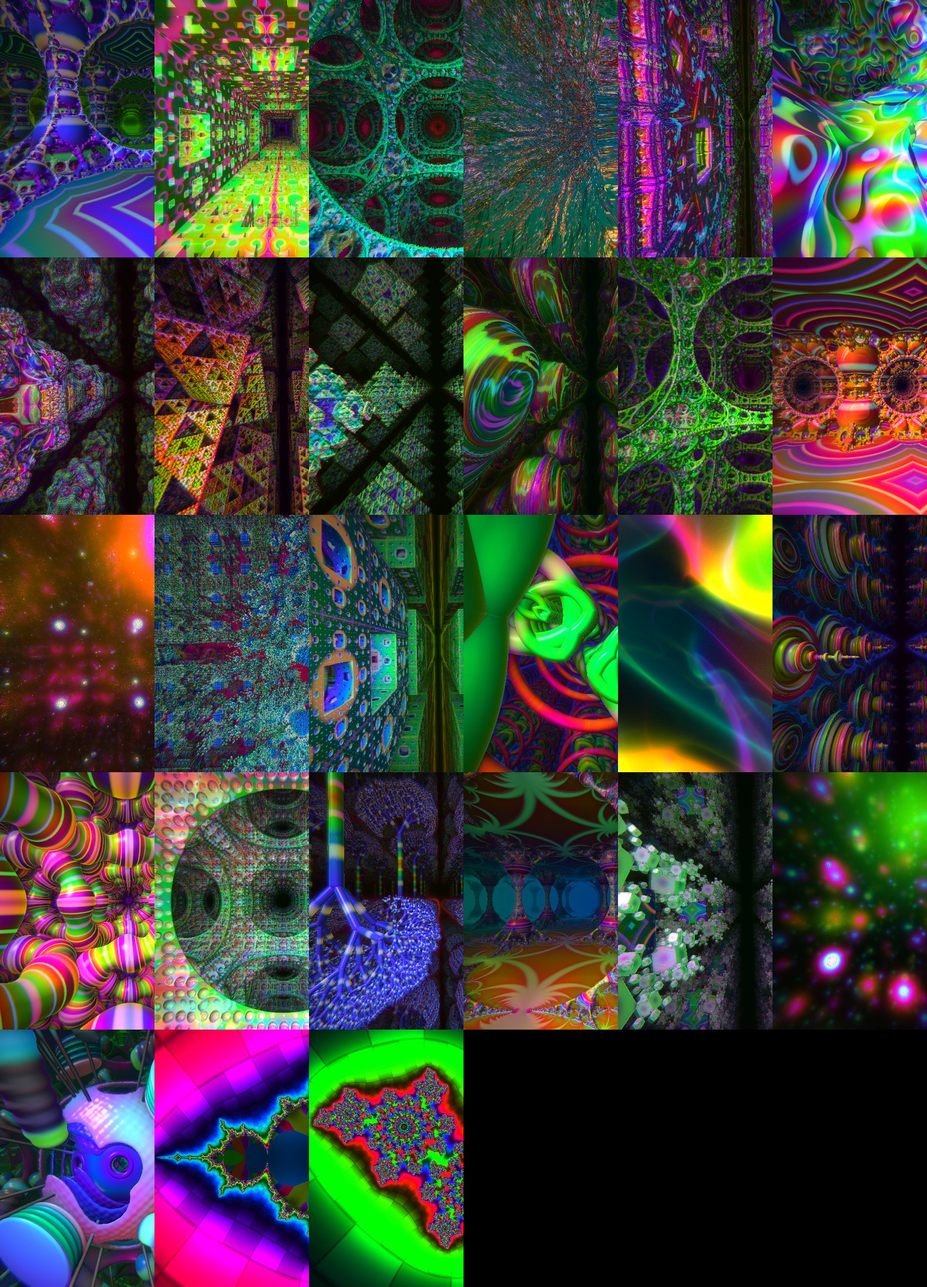
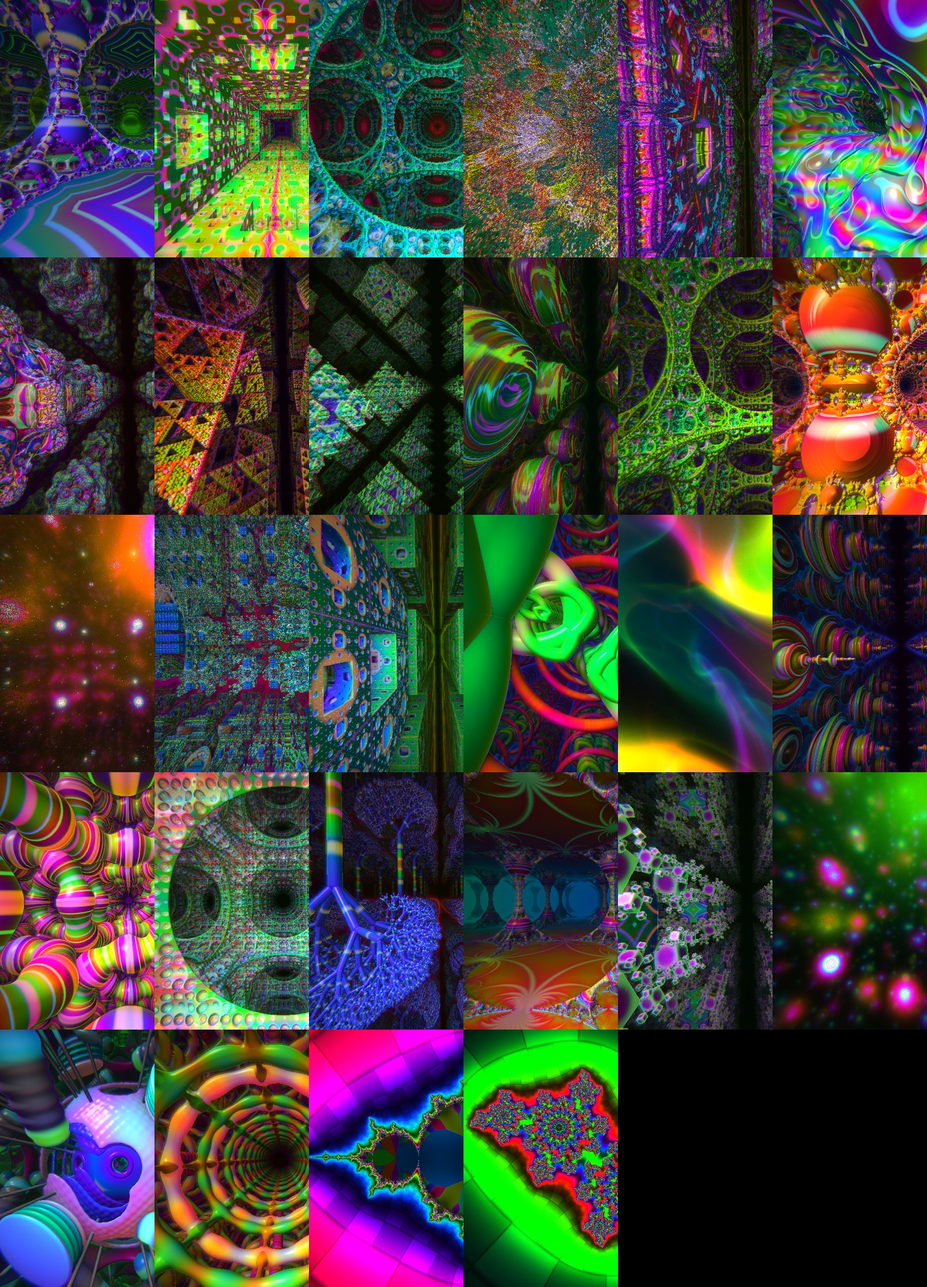
Biomech: a world of rib cages, spines and hoses in homage to H. R. Giger, with palettes, a surface, a filter and a journey
The world is tunnels whose walls are cages of segmented rings and knuckled
rods, with a spine of vertebrae where four meet, tendons from ring to
spine, and pairs of ribbed hoses between; the rings breathe with the
morph. With it: the near-grey palettes Gunmetal, Tallow and Verdigris
(open without orbs), the ribbed surface, the Airbrush filter, and the
Biomech journey template. Nothing of Giger's is copied.

Claude-Session: https://claude.ai/code/session_01P6VPRAEHB2YHcMwxJHigoo

diff --git a/js/worlds.js b/js/worlds.js
@@ -812,6 +812,61 @@ export const WORLDS=[
  }},
 /* The two zoom worlds are flat pictures, not spaces: js/zoom.js draws them and moves the view. They are marked as cloud
    worlds too, so that everything that needs a surface (the orb's check, the thrown light, the distance probe) leaves them alone. */
+/* Biomech: an endless hall of ribbed tunnels, in homage to the biomechanical paintings of H. R. Giger. Nothing of his
+   is copied; it is made of the kinds of thing he painted: rib cages, spines, hoses. Along z run tunnels, one to each
+   3.2 by 3.2 of x and y. A tunnel's wall is a cage: two rings to each unit of z, their thickness cut into segments
+   like a windpipe, joined by eight knuckled rods. Where four tunnels meet stands a spine of four vertebrae to the
+   unit, joined to the larger rings by tendons, and between each two tunnels runs a pair of ribbed hoses. The morph
+   swells one ring as it shrinks the other, as if the cage breathed. The joins are rounded (bmS), and the swellings
+   make the distance a little too large in places, so three quarters of it is used. */
+{id:"biomech",name:"Biomech",hue:.47,fog:.19,maxd:16,speed:.6,start:[.25,.1,.2],
+ period:function(){return [3.2,3.2,1]},
+ glsl:[
+ "float bmS(float a,float b,float k){float h=clamp(0.5+0.5*(b-a)/k,0.0,1.0);return mix(b,a,h)-k*h*(1.0-h);}",
+ "float map(vec3 p){",
+ "  vec3 q=vec3(mod(p.x+1.6,3.2)-1.6,mod(p.y+1.6,3.2)-1.6,mod(p.z+0.5,1.0)-0.5);",
+ "  float rho=length(q.xy);float a=atan(q.y,q.x);float w=0.10;",
+ "  float seg=0.016*cos(12.0*a);",
+ "  float d=length(vec2(rho-(1.12+0.06*uM),q.z))-(0.085+seg);", /* the larger ring, in the middle of each unit */
+ "  float d1=length(vec2(rho-(1.02-0.05*uM),0.5-abs(q.z)))-(0.065-seg);", /* the smaller, at its ends */
+ "  if(d1<d){d=d1;w=0.16;}",
+ "  float af=mod(a+0.3926991,0.7853982)-0.3926991;", /* the eight rods: one is worked out, and the angle folded onto it */
+ "  float ds=length(vec2(rho*cos(af)-1.09,rho*sin(af)))-(0.045+0.02*cos(12.5663706*q.z));",
+ "  if(ds<d)w=0.24;",
+ "  d=bmS(d,ds,0.07);",
+ "  vec2 c=abs(q.xy)-1.6;float vb=0.5+0.5*cos(25.1327412*q.z);", /* the spine at the nearest corner */
+ "  float dv=length(c)-(0.2+0.13*vb*vb);",
+ "  float dt=max(length(vec2((abs(q.x)-abs(q.y))*0.7071068,q.z))-0.05,1.07+0.06*uM-rho);", /* a tendon from the larger ring out to the spine */
+ "  if(dt<d)w=0.30;",
+ "  d=bmS(d,dt,0.08);",
+ "  if(dv<d)w=0.36+0.06*vb;",
+ "  d=bmS(d,dv,0.08);",
+ "  vec2 e=vec2(abs(q.x)-1.6,q.y);vec2 f=vec2(abs(q.y)-1.6,q.x);if(dot(f,f)<dot(e,e))e=f;", /* the pair of hoses between this tunnel and the nearest neighbour */
+ "  float dh=length(vec2(e.x,abs(e.y)-0.13))-(0.085+0.012*cos(62.8318531*q.z));",
+ "  if(dh<d){d=dh;w=0.52+0.04*cos(62.8318531*q.z);}",
+ "  orb=vec4(0.5+0.5*cos(12.0*a),0.3*vb,0.25,w);",
+ "  return 0.75*d;",
+ "}"],
+ de:function(x,y,z,m){
+  var S=function(a,b,k){var h=Math.max(0,Math.min(1,.5+.5*(b-a)/k));return b+(a-b)*h-k*h*(1-h);};
+  var qx=md(x+1.6,3.2)-1.6,qy=md(y+1.6,3.2)-1.6,qz=md(z+.5,1)-.5;
+  var rho=Math.hypot(qx,qy),a=Math.atan2(qy,qx),seg=.016*Math.cos(12*a);
+  var d=Math.hypot(rho-(1.12+.06*m),qz)-(.085+seg);
+  var d1=Math.hypot(rho-(1.02-.05*m),.5-Math.abs(qz))-(.065-seg);
+  if(d1<d)d=d1;
+  var af=md(a+.3926991,.7853982)-.3926991;
+  var ds=Math.hypot(rho*Math.cos(af)-1.09,rho*Math.sin(af))-(.045+.02*Math.cos(12.5663706*qz));
+  d=S(d,ds,.07);
+  var cx=Math.abs(qx)-1.6,cy=Math.abs(qy)-1.6,vb=.5+.5*Math.cos(25.1327412*qz);
+  var dv=Math.hypot(cx,cy)-(.2+.13*vb*vb);
+  var dt=Math.max(Math.hypot((Math.abs(qx)-Math.abs(qy))*.7071068,qz)-.05,1.07+.06*m-rho);
+  d=S(d,dt,.08);
+  d=S(d,dv,.08);
+  var ex=cx,ey=qy,fx=cy,fy=qx;if(fx*fx+fy*fy<ex*ex+ey*ey){ex=fx;ey=fy;}
+  var dh=Math.hypot(ex,Math.abs(ey)-.13)-(.085+.012*Math.cos(62.8318531*qz));
+  if(dh<d)d=dh;
+  return .75*d;
+ }},
 {id:"mzoom",name:"Mandelbrot zoom",hue:.55,fog:0,maxd:1,speed:.5,start:[.3,.2,.1],volume:true,flat:true,
  period:function(){return [4,4,4]},glsl:[],de:function(){return .2}},
 {id:"jzoom",name:"Julia zoom",hue:.1,fog:0,maxd:1,speed:.5,start:[.3,.2,.1],volume:true,flat:true,julia:true,

diff --git a/js/shaders.js b/js/shaders.js
@@ -291,14 +291,24 @@ export function fragSource(w){
 "      }",
 "      float edge=smoothstep(0.03+0.06*uBeat,0.06+0.06*uBeat+2.0*sa,f2-f1);",
 "      base=pal(uHue+0.1*tr.w+0.5*id)*(0.3+0.7*edge)*(0.8+0.5*uMid*(0.5+0.5*sin(6.28318*id*9.0+uTime)));quiet=1.0;",
-"    }else if(uSurf>6.5){", /* pearl: the colour comes from the way the surface faces and how squarely it is seen, not from where it is, so it slides over a shape as you pass, like oil on water. It shifts with the middle of the sound. */
+"    }else if(uSurf>8.5){", /* ribbed: fine ridges run across the surface like the rings of a hose, wavering a little, with a wider swell under them; the colour is mostly taken out, so the surface reads as dull metal or bone, and it shines */
+"      vec3 rm=max(floor(uPer*0.5+0.5),1.0)*6.28318/uPer;vec3 rq=sp*rm;",
+"      float sharp=clamp(0.02/(uPix*t),0.0,1.0);",
+"      float ra=24.0*rq.z+8.0*rq.x+8.0*rq.y+1.5*sin(2.0*rq.x-rq.y)+1.5*sin(2.0*rq.y+rq.z);",
+"      float rv=0.5+0.5*sin(ra);float rc=cos(ra);",
+"      vec3 rg=rc*(vec3(8.0,8.0,24.0)+1.5*cos(2.0*rq.x-rq.y)*vec3(2.0,-1.0,0.0)+1.5*cos(2.0*rq.y+rq.z)*vec3(0.0,2.0,1.0))*rm;", /* which way the ridges rise, for tilting the surface */
+"      n=normalize(n-0.012*sharp*(rg-n*dot(rg,n)));",
+"      rv=mix(0.5,rv,sharp);float sw=0.5+0.5*sin(3.0*rq.x+2.0*rq.y+rq.z+0.6*uMid);",
+"      vec3 rb=base*(0.5+0.6*rv)*(0.75+0.25*sw);",
+"      base=mix(vec3(dot(rb,vec3(0.299,0.587,0.114))),rb,0.4);shine=2.4;quiet=0.9;",
+"    }else if(uSurf>6.5&&uSurf<7.5){", /* pearl: the colour comes from the way the surface faces and how squarely it is seen, not from where it is, so it slides over a shape as you pass, like oil on water. It shifts with the middle of the sound. */
 "      base=mix(vec3(0.7),pal(uHue+1.3*(1.0-nd)+0.5*dot(n,vec3(0.36,0.80,0.48))+0.2*tr.w+0.3*uMid+0.03*uTime),0.7);shine=2.2;quiet=0.6;",
 "    }",
 "#ifdef CHROME",
 /* chrome: a second ray is followed from the surface the way a mirror would send it, and what it meets is shown in the
    surface: the shape it hits in its own colours, darker in the folds and faded by the distance, or the dark of the
    distance. The metal itself is dark and tinted by the palette, and shines more at a glancing angle. */
-"    if(uSurf>7.5){",
+"    if(uSurf>7.5&&uSurf<8.5){",
 "      vec3 rr=reflect(rd,n);vec3 rp=p+n*(3.0*e);float rt=4.0*e;float rs=0.0;float rh=0.0;float rd2=0.0;",
 "      for(int i=0;i<RSTEPS;i++){",
 "        rd2=map(rp+rr*rt);",
@@ -550,7 +560,7 @@ VR_GLSL,
 "    else if(uFx<3.5)cw*=mix(0.5,1.0,smoothstep(0.0,0.5,length(cw)));", /* bulge: the middle swells */
 "    else{float ta=2.0*sin(uTime*0.25)*max(0.6-length(cw),0.0);float tcs=cos(ta),tsn=sin(ta);cw=vec2(tcs*cw.x-tsn*cw.y,tsn*cw.x+tcs*cw.y);}", /* twirl: winds and unwinds */
 "  }",
-"  if(uFx>14.5){vec2 gt=fract(cw*vec2(uAsp,1.0)*9.0)-0.5;cw+=gt*0.035;}", /* glass: a grid of small lenses */
+"  if(uFx>14.5&&uFx<15.5){vec2 gt=fract(cw*vec2(uAsp,1.0)*9.0)-0.5;cw+=gt*0.035;}", /* glass: a grid of small lenses */
 "  if(uLiq>0.0)cw+=uLiq*vec2(sin(cw.y*14.0+uTime*1.3),cos(cw.x*12.0-uTime*1.1));",
 "  if(uMos>0.0){vec2 n=vec2(uMos*uAsp,uMos);cw=(floor(cw*n)+0.5)/n;}",
 "  if(uVr<1.5)break;",
@@ -611,6 +621,9 @@ VR_GLSL,
 "      col=clamp(t*0.94+0.03+0.03*(fract(sin(dot(gl_FragCoord.xy,vec2(12.9898,78.233))+floor(uTime*10.0))*43758.5453)-0.5),0.0,1.0);",
 "    }else if(uFx<13.5){", /* streaks: the bright parts run down the picture */
 "      for(int i=1;i<9;i++){vec3 s=texture2D(uT,tw+vec2(0.0,float(i)*uPx.y*7.0)).rgb;col=max(col,s*smoothstep(0.45,0.8,dot(s,LW))*(1.0-float(i)/9.0));}",
+"    }else if(uFx>15.5){", /* airbrush: the brightness with more contrast, tinted cool where dark and warm where light, and only a little of the colour kept */
+"      float ab=smoothstep(0.0,0.62,lum);ab=mix(ab,ab*ab*(3.0-2.0*ab),0.5);",
+"      col=mix(mix(vec3(0.50,0.60,0.58),vec3(1.0,0.96,0.88),ab)*ab,col,0.10);",
 "    }",
 "  }",
 "  col+=texture2D(uB,tw).rgb*uBloom;",

diff --git a/js/palettes.js b/js/palettes.js
@@ -18,18 +18,23 @@ export const PALETTES=[
  {name:"Candy",a:[.7,.5,.6],b:[.3,.4,.4],c:[1,1,1],d:[0,.3,.6]},
  {name:"Toxic",a:[.3,.5,.05],b:[.3,.5,.05],c:[1,1,1],d:[.15,0,.5]},
  {name:"Gold",a:[.5,.4,.15],b:[.5,.4,.2],c:[1,1,1],d:[0,.05,.3]},
- {name:"Ultraviolet",a:[.35,.1,.55],b:[.35,.1,.45],c:[1,1,1],d:[.1,.5,0]}
+ {name:"Ultraviolet",a:[.35,.1,.55],b:[.35,.1,.45],c:[1,1,1],d:[.1,.5,0]},
+ /* three near-greys for the Biomech world: cold steel, old bone, and green bronze. They are open from the start (open:true), not found by orbs */
+ {name:"Gunmetal",a:[.36,.40,.41],b:[.33,.35,.34],c:[1,1,1],d:[0,.02,.05],open:true},
+ {name:"Tallow",a:[.42,.36,.25],b:[.38,.32,.22],c:[1,1,1],d:[0,.03,.08],open:true},
+ {name:"Verdigris",a:[.20,.35,.30],b:[.20,.30,.26],c:[1,1,1],d:[.06,0,.11],open:true}
 ];
 export const BASE_PALS=8;
+export const ORB_PALS=6; /* how many palettes after those are opened by finding orbs */
 export const NPAL=PALETTES.length;
 /* a built-in palette is open once its orb is found; palettes from a pack are always open */
-export function palOpen(i){return i<BASE_PALS+unlocked||i>=NPAL;}
+export function palOpen(i){return i<BASE_PALS+unlocked||i>=NPAL||!!(PALETTES[i]&&PALETTES[i].open);}
 /* give a shader the palette in use (its four uniforms uPa, uPb, uPc, uPd) */
 export function setPal(U){gl.uniform3fv(U.uPa,palCur.a);gl.uniform3fv(U.uPb,palCur.b);gl.uniform3fv(U.uPc,palCur.c);gl.uniform3fv(U.uPd,palCur.d);}
 
 /* What this file does when the app starts. main.js calls each file's init in turn. */
 /* an orb was collected: count it, and unlock the next palette if any are left. True if one was unlocked. */
-export function orbCounted(){orbsFound++;if(unlocked<NPAL-BASE_PALS){unlocked++;return true;}return false;}
+export function orbCounted(){orbsFound++;if(unlocked<ORB_PALS){unlocked++;return true;}return false;}
 export let palCur;
 export function saveProgress(){try{localStorage.setItem("mirrorfold",JSON.stringify({u:unlocked,n:orbsFound}))}catch(_){}}
 export function fillPalettes(){
@@ -60,9 +65,9 @@ export function easePalette(dt){
 /* What this file does when the app starts. main.js calls each file's init in turn. */
 export function init(){
 palCur={a:PALETTES[0].a.slice(),b:PALETTES[0].b.slice(),c:PALETTES[0].c.slice(),d:PALETTES[0].d.slice()};
-try{var sv=JSON.parse(localStorage.getItem("mirrorfold")||"{}");unlocked=Math.max(0,Math.min(NPAL-BASE_PALS,sv.u|0));orbsFound=sv.n|0;}catch(_){}
+try{var sv=JSON.parse(localStorage.getItem("mirrorfold")||"{}");unlocked=Math.max(0,Math.min(ORB_PALS,sv.u|0));orbsFound=sv.n|0;}catch(_){}
 }
 
 /* for the test tools and the browser console: every name in this file; the ones that can change have a getter and a setter */
-export const __dbg={PALETTES, BASE_PALS, NPAL, palOpen, setPal, orbCounted, saveProgress, fillPalettes, labelPalettes, setPalette,
+export const __dbg={PALETTES, ORB_PALS, BASE_PALS, NPAL, palOpen, setPal, orbCounted, saveProgress, fillPalettes, labelPalettes, setPalette,
   randomPalette, easePalette, get unlocked(){return unlocked},set unlocked(v){unlocked=v}, get orbsFound(){return orbsFound},set orbsFound(v){orbsFound=v}, get palCur(){return palCur},set palCur(v){palCur=v}};

diff --git a/js/journey.js b/js/journey.js
@@ -258,6 +258,9 @@ BUILTIN_T=[
  {name:"Kaleidoscope",mirrors:{mode:"random",set:["3","4","6","8","12"]},motion:{mode:"off"},filter:{mode:"random",set:["none","Quad","Tiles","Twirl","Prism"]},overlay:{mode:"off"}},
  {name:"Calm",world:{every:90,set:["coral","julia","aurora","nebula","gates","halls","temple"]},palette:{every:40},mirrors:{mode:"off"},
   motion:{mode:"random",every:50,set:["none","Melt","Drift"]},filter:{mode:"random",every:60,set:["none","Liquid"]},overlay:{mode:"off"}},
+ /* the Biomech world and what goes with it: near-grey palettes, the ribbed and chrome surfaces, the Airbrush filter */
+ {name:"Biomech",world:{every:80,set:["biomech","web","thicket","tangle"]},palette:{every:35,set:["Gunmetal","Tallow","Verdigris","Bone"]},mirrors:{mode:"off"},
+  motion:{mode:"off"},filter:{mode:"random",every:60,set:["Airbrush","none","Noir"]},overlay:{mode:"off"},surface:{mode:"random",every:50,set:["ribbed","plain","chrome","pearl"]}},
  {name:"Landscapes",world:{every:70},mirrors:{mode:"off"},land:{mode:"random",every:80}},
  {name:"Follow the music",world:{trigger:"sound",every:45},mirrors:{mode:"random",none:"75"},motion:{mode:"random"},overlay:{mode:"random",set:["Ring","Scope","Spectrum","Spokes"]},surface:{mode:"random"}}
 ].map(function(t){return normT(t,true)});

diff --git a/js/state.js b/js/state.js
@@ -39,12 +39,13 @@ export const LOOKS=[
  {name:"Tape",fx:12},
  {name:"Streaks",fx:13},
  {name:"Emboss",fx:14},
- {name:"Glass",fx:15}
+ {name:"Glass",fx:15},
+ {name:"Airbrush",fx:16} /* nearly all the colour taken out, cool in the shadows and warm in the lights, as if sprayed in greys */
 ];
 /* what the worlds' surfaces are made of: plain is one colour of the palette to a part of a shape; grain is the rings
    of a tree, worked out in the scene shader from the place a ray lands (js/shaders.js), so a shape looks cut from a
    block of timber. The grain takes its colours from the palette too: with the palette Wood it is brown. */
-export const SURFACES=[{name:"plain"},{name:"grain"},{name:"dots"},{name:"tiles"},{name:"marble"},{name:"wire"},{name:"cells"},{name:"pearl"},{name:"chrome"}];
+export const SURFACES=[{name:"plain"},{name:"grain"},{name:"dots"},{name:"tiles"},{name:"marble"},{name:"wire"},{name:"cells"},{name:"pearl"},{name:"chrome"},{name:"ribbed"}];
 export const OVS=[.15,.3,.5,.75,1];
 export const OVERLAYS=[{name:"none"},{name:"Ring"},{name:"Scope"},{name:"Spectrum",spec:1},{name:"Spokes",spec:1},{name:"Rings"},{name:"Spiral"},{name:"Orbit"}];
 export const TRANSITIONS=8;

diff --git a/index.html b/index.html
@@ -152,7 +152,7 @@
 <div id="start">
   <div class="card">
     <h1>Mirrorfold</h1>
-    <p>Twenty-seven endless fractal worlds to fly through. They breathe, recolour and pulse with the music, and you can never hit a wall. Turn on Journey to sit back and be flown.</p>
+    <p>Twenty-eight endless worlds to fly through. They breathe, recolour and pulse with the music, and you can never hit a wall. Turn on Journey to sit back and be flown.</p>
     <p>Each world hides a glowing orb. Fly into it. The first six you find each unlock a new palette. The Orbs button hides them.</p>
     <p id="how"></p>
     <p>For Apple Music or any other app: enter silent, start your song there, then set Music to Tap tempo and tap along.</p>

diff --git a/README.md b/README.md
@@ -13,7 +13,7 @@
 >
 > Mirrorfold is designed to avoid strobing, but it has **not** been tested or certified against any photosensitivity standard, and no setting makes it safe for everyone. It is not a medical device and nothing here is medical advice. It is provided "as is", without warranty of any kind, and you use it entirely at your own risk; see the [licence](LICENSE).
 
-Fly through endless fractal worlds in your browser. Twenty-seven worlds, kaleidoscope mirrors, feedback trails, filters, overlays, and an autopilot that reacts to music.
+Fly through endless fractal worlds in your browser. Twenty-eight worlds, kaleidoscope mirrors, feedback trails, filters, overlays, and an autopilot that reacts to music.
 
 This project is inspired in part by the music visualizers from decades past… from Winamp plugins to the standalone visualizer MilkDrop. This has a familiar feel when in Journey mode (an autopilot that flies through the procedurally generated 3D worlds) while listening to music. 
 
@@ -31,7 +31,7 @@ Relax, unwind, and enjoy!
 
 **Try it: https://gcrabtree.github.io/MirrorFold/**
 
-![Contact sheet of all 27 worlds](docs/worlds.jpg)
+![Contact sheet of all 28 worlds](docs/worlds.jpg)
 
 The app is one page, one stylesheet and a folder of JavaScript modules. There is no build step and no JavaScript dependency. It uses WebGL 1, so it runs in any current browser on a phone or a desktop.
 
@@ -58,7 +58,8 @@ The app is one page, one stylesheet and a folder of JavaScript modules. There is
 
 ## What it does
 
-- **27 worlds.** Twenty-two are solid surfaces, all fractals but Cell (the inside of a living cell); three (Nebula, Aurora and Lanterns) are glowing volumes; two (Mandelbrot zoom and Julia zoom) are flat pictures seen from above that zoom in and out. Every world you fly through repeats forever in all directions.
+- **28 worlds.** Twenty-three are solid surfaces, all fractals but Cell (the inside of a living cell) and Biomech (see below); three (Nebula, Aurora and Lanterns) are glowing volumes; two (Mandelbrot zoom and Julia zoom) are flat pictures seen from above that zoom in and out. Every world you fly through repeats forever in all directions.
+- **Biomech**, a world in homage to the biomechanical paintings of H. R. Giger: an endless hall of tunnels whose walls are rib cages, with spines where the tunnels meet, tendons between ribs and spines, and ribbed hoses running alongside. The cages breathe with the morph. Nothing of his is copied; it is built from the kinds of thing he painted. With it come three near-grey palettes that are open from the start (**Gunmetal**, **Tallow**, **Verdigris**), the **ribbed** surface, the **Airbrush** filter and the **Biomech** journey template, all of which work in every other world too.
 - **Zooms a trillion times deep.** The two zoom worlds magnify the Mandelbrot set and Julia sets up to about a trillion times, on points where there is always something to see. See [The zoom worlds](#the-zoom-worlds).
 - **Free flight** in any direction, with roll. Your speed drops as you approach a surface, so you can never hit a wall.
 - **Morph.** Each world changes shape as you fly. With music playing, the song decides the shape: a quiet passage opens the world out, a full one folds it dense, and a drop gives a surge forward.
@@ -169,12 +170,12 @@ The controls fade after five seconds and come back when you touch the picture.
 | Control | What it does |
 |---|---|
 | Feedback motion | none, Melt, Vortex, Tunnel, Implode, Ripple, Drift. Each one smears the previous frame in a different way. |
-| Filter | none, Echo, Neon, Solar, Negative, Poster, Mosaic, Liquid, Prism, Quad, Tiles, Bulge, Twirl, Thermal, CRT, Halftone, Contour, Noir, Comic, Two-tone, Tape, Streaks, Emboss, Glass. The last six were made with video in mind. |
+| Filter | none, Echo, Neon, Solar, Negative, Poster, Mosaic, Liquid, Prism, Quad, Tiles, Bulge, Twirl, Thermal, CRT, Halftone, Contour, Noir, Comic, Two-tone, Tape, Streaks, Emboss, Glass, Airbrush. The six before Airbrush were made with video in mind. **Airbrush** takes nearly all the colour out and leaves the light: cool in the shadows, warm in the highlights, as if the picture were sprayed in greys. |
 | Overlay | none, Ring, Scope, Spectrum, Spokes, Rings, Spiral, Orbit. These draw the sound on top of the picture. |
 | Overlay strength | 15%, 30%, 50%, 75% or 100%. |
 | Mirrors | Opens a chooser: off, 3, 4, 6, 8 or 12 segments. The M key steps through them. |
 | FX | Opens a chooser: glow, trails or clean. Sets the base amount of trail and bloom. |
-| Surface | Opens a chooser of what the worlds' surfaces are made of, all in the palette's colours. **Plain** gives each part of a shape one colour. **Grain** is the rings of a tree, as if every shape were carved from a block of timber (choose the palette Wood for browns); the rings' waves drift slowly, grow with the music and step on the beat. **Dots** are round dots with a dark border that grow on the beat. **Tiles** are blocks of different shades with dark joints, and some light up with the high notes. **Marble** is pale stone with dark veins that drift and thicken on the beat. **Wire** is a dark surface with a glowing grid that brightens on the beat. **Cells** are irregular patches with dark edges that widen on the beat. **Pearl** is a sheen whose colour slides over a shape as you pass. It changes the solid worlds only: the three glowing worlds and the two zoom worlds have no surfaces. **Chrome** is dark polished metal that shows the other shapes in it: a second ray is followed from every surface, so it costs up to twice as much to draw, and **Detail auto** may make the picture less sharp while it is on. It has its own programs, made when it is first chosen. In a world from a pack it is the same as plain. |
+| Surface | Opens a chooser of what the worlds' surfaces are made of, all in the palette's colours. **Plain** gives each part of a shape one colour. **Grain** is the rings of a tree, as if every shape were carved from a block of timber (choose the palette Wood for browns); the rings' waves drift slowly, grow with the music and step on the beat. **Dots** are round dots with a dark border that grow on the beat. **Tiles** are blocks of different shades with dark joints, and some light up with the high notes. **Marble** is pale stone with dark veins that drift and thicken on the beat. **Wire** is a dark surface with a glowing grid that brightens on the beat. **Cells** are irregular patches with dark edges that widen on the beat. **Pearl** is a sheen whose colour slides over a shape as you pass. It changes the solid worlds only: the three glowing worlds and the two zoom worlds have no surfaces. **Ribbed** covers every surface in fine ridges like the rings of a hose, takes most of the colour out and makes it shine, so shapes read as dull metal or bone. **Chrome** is dark polished metal that shows the other shapes in it: a second ray is followed from every surface, so it costs up to twice as much to draw, and **Detail auto** may make the picture less sharp while it is on. It has its own programs, made when it is first chosen. In a world from a pack it is the same as plain. |
 | Packing | Opens a chooser of how the worlds made of one shape repeated set their copies out: Citadel, Bulbs, Shards, Crystal, Julia, Hive, Mandelbrot and Pyrite. The other worlds are not changed by it. **Grid** is a copy at every step along straight rows, each the mirror of the one beside it, with flat empty lanes between. **Scattered** has copies all of one size, each moved off its place and turned its own way, with about one place in eight left empty. **Nested** has copies of three sizes: space is cut into large boxes, some of them cut into eight, and some of those into eight again, with one copy to a box. **Sponge** has small copies set out as a sponge, with square holes right through it that you can fly along, and one large copy at the heart of each block. **Helix** has two strands of copies winding up round an open middle. **Shells** has cages of twenty copies, one inside another round a centre without end, each a third the size of the one outside it and turned a little. **Descent** is a single nest of such cages that has no largest or smallest: the world is the same three times larger, so as you fly in the page moves you three times as far out, where everything looks the same, and you can go in for ever. Journey leans toward the middle there. In the descent there is no doorway, and a flight cannot be recorded; friends flying together may show a cage in or out from where they are. Changing the packing happens behind a transition and puts you down in open space, since every shape moves. The choice is kept in this browser, and a share link, a recorded flight and Fly together carry it. |
 | Inside out | Off or on. On, open space and solid are swapped in every world that has surfaces. The swap is made a little way out from the shapes: the new walls stand at a fixed distance from the old shapes (three tenths of the most open space the world has), and everything nearer the old shapes than that, the shapes themselves included, is open. So you fly in and around where the shapes were, and what was the middle of the open space is solid. The walls are smoother than the shapes were, and keep their colours. The open space is a layer no thicker than that distance, so flight is slower, a great deal slower in tight worlds such as Sponge. Changing it puts you in open space again, behind a transition. It is carried by share links, recorded flights and Fly together, and Journey can change it (it is left as set by default). Not in a zoom, cloud or pack world, or in the descent packing. |
 | Light shafts | Off (the default) or on. The open space gets a faint haze which is lit only where the way toward the light is clear, so light falls in beams through the gaps between shapes, brightest when you look toward the light. The light comes from one direction fixed in the world. It shows most in open worlds with dark space between the shapes (Julia, Halls); in a bright enclosed world such as Sponge there is little to see. It is heavier to draw: up to thirty more distance sums for each pixel. The first time it is chosen each world's program is made again, which takes a moment. Not in a zoom or cloud world. |
@@ -340,7 +341,7 @@ A **template** says what Journey may change and how often. For each of world, pa
 
 A **set** plays several templates in turn, each for a number of minutes.
 
-Built-in templates: Classic, Everything, Clean flight, MilkDrop, Kaleidoscope, Calm, Landscapes, Follow the music. Built-in set: Grand tour.
+Built-in templates: Classic, Everything, Clean flight, MilkDrop, Kaleidoscope, Calm, Biomech, Landscapes, Follow the music. **Biomech** keeps to the Biomech world and three others made of rods and webs (Web, Thicket, Tangle), the near-grey palettes, the ribbed, chrome, pearl and plain surfaces and the Airbrush and Noir filters, with no mirrors, motions or overlays. Built-in set: Grand tour.
 
 Turn Journey on and press **Edit journeys** to make your own. Built-in templates cannot be edited; use **Duplicate** to start from one. Your templates and sets are saved in your browser only. To keep a copy or move them to another device, save them as a pack; see [Library and packs](#library-and-packs).
 
@@ -521,7 +522,7 @@ Sound goes through one Web Audio analyser. Three bands each keep a level and a s
 | `js/` | The app, as about 67 modules; the architecture document lists what each holds |
 | `docs/ARCHITECTURE.md` | How it works, in detail |
 | `docs/TV.md` | How to show Mirrorfold on a TV by screen mirroring |
-| `docs/worlds.jpg` | Contact sheet of all 27 worlds |
+| `docs/worlds.jpg` | Contact sheet of all 28 worlds |
 | `thumbs/` | The choosers' small pictures, one for each built-in world, palette, motion, filter, overlay, mirror setting, FX setting and landscape |
 | `lang/` | The lessons' words, one flat file for each language (`en.json`) |
 | `voice/` | The lessons' voice: one sound file for each step, and `index.json`, which records the words each was made from |

diff --git a/docs/ARCHITECTURE.md b/docs/ARCHITECTURE.md
@@ -10,10 +10,10 @@ Mirrorfold is a first-person fly-through of endless fractal worlds, rendered by 
 
 Features, in the order a user meets them:
 
-- **27 worlds.** 22 are surfaces found by sphere tracing a distance estimator; 3 (Nebula, Aurora, Lanterns) are volumetric; 2 (Mandelbrot zoom, Julia zoom) are flat pictures (section 6c).
+- **28 worlds.** 23 are surfaces found by sphere tracing a distance estimator; 3 (Nebula, Aurora, Lanterns) are volumetric; 2 (Mandelbrot zoom, Julia zoom) are flat pictures (section 6c).
 - **Free flight** with six degrees of freedom. Speed scales with distance to the nearest surface, so you cannot hit a wall.
 - **Kaleidoscope mirrors**: off, 3, 4, 6, 8 or 12 segments, applied to the ray direction.
-- **14 palettes** (8 available at once, 6 unlocked by finding orbs).
+- **17 palettes** (8 available at once, 6 unlocked by finding orbs, and 3 near-greys that came with the Biomech world and are marked `open`, so they need no orb; `ORB_PALS` is the 6).
 - **Feedback motions** (6), **filters** (17), **overlays** (7) and **transitions** (8).
 - **Music**: a built-in generative track, a user's audio file with a scrubber, the sound of another browser tab, the microphone, or tap tempo for music playing in another app. Three frequency bands drive different parts of the picture.
 - **Journey**: an autopilot that flies, and changes world, palette, mirrors, motion, filter and overlay on jittered clocks. What it may change is set by templates; sets play several templates in turn. Both are user-editable and stored in the browser.
@@ -232,6 +232,7 @@ for (int i = 0; i < STEPS; i++) {
 - Animated bands: `smoothstep(0.75, 1, 0.5 + 0.5*sin(24*orb.w - 1.2*uTime))`, brightened by the mid band.
 - **Surface grain** (`uSurf` 1, the Surface chooser, `SURFACES` in `state.js`, `sel.si`): the base colour is not one palette colour to a part of a shape but a wood grain worked out from the place the ray lands, coloured `pal(uHue + 0.12*orb.w + 0.5*dark) * (1 - 0.5*dark)`, so each ring runs through half the palette and ends in a darker line (the palette Wood is browns, which gives timber). The grain is `woodAt` in `js/shaders.js`. The place is turned into angles `q = p * 2*pi*n / period` (`uPer`, the world's period this frame; `n` the whole number nearest half the period, so a trunk runs along z about every 2 units), and the grain is built only from sines and cosines of whole multiples of `q`, so it repeats exactly where the world does and does not jump when the camera is wrapped. Rings: `fract(10*sqrt(2.02 - cos qx' - cos qy') + wobble)`, cubed, so each year darkens to a line. Rings finer than a pixel fade to their average (`sharp`). Three more samples tilt the normal so the dark lines stand proud; fine fibres (three sets of waves across the trunk) show close to. The rings' waves drift with the clock (`uTime`), grow with the middle band's pulse (`uMid`), and the rings step a third of a ring on the beat (`uBeat`); those reach the shader as uniforms, so both eyes of the VR viewer see the same, and Hold still, which gives the scene no clock and no sound, sees them stand still. On the grain the glowing bands, the rim light and the highlight are turned down. Journey can change it (the `surface` entry of a template: a name from `SURFACES`; off means plain), behind a transition as mirrors are. Not in share spots or a pack's scene yet.
 - **The other surfaces** (`uSurf` 2 to 7, same chooser; all in `js/shaders.js` beside the grain, all in the palette's colours, all taking the sound only as the uniforms `uBeat`, `uMid`, `uHi`, so Hold still and the VR viewer are safe as for the grain). Four are made of blocks: `sfN(k)` gives a whole number of blocks to the world's period on each axis at about `k` to a unit, the place in blocks is `p*sfN/uPer + 0.37` (the 0.37 keeps faces that lie on simple fractions of the period, as Sponge's do, off the joints), and a block's chance number is taken from its count round the period (`mod(c + 0.5, sfN)`), so the pattern repeats where the world does. **Dots** (2): balls on two grids, one in the gaps of the other, 6 blocks to a unit, radius `0.25 + 0.12*uBeat` of a block; a surface cutting one shows a dot in the opposite palette colour, the outer 0.07 of a block of it a dark border. **Tiles** (3): 3 blocks to a unit, each its own shade, dark joints within 0.03 of a block's side, not counting an axis the surface faces (`|n| > 0.7`); a tile gives off light when its own slow wave is high, scaled by `0.12 + 1.2*uHi`. **Marble** (4): the grain's angles `q`; a vein where `sin(3qx + qz + (2.2 + 1.5*uMid)*turb)` crosses zero, `turb` three sines of whole multiples drifting with the clock, the vein's sharpness `6 - 3.5*uBeat`. **Wire** (5): 5 blocks to a unit, the surface darkened to a tenth, the joints (width `0.03 + 0.03*uMid`) giving off light with a wave running along them, times `0.7 + uBeat`. **Cells** (6): a point by chance in each of 3 blocks to a unit, 27 blocks searched; colour by the nearest point, a dark edge where the two nearest are within `0.03 + 0.06*uBeat` of each other. **Pearl** (7): no place at all; the palette is looked up by `1.3*(1 - |n.rd|) + 0.5*n.(fixed direction) + 0.3*uMid`, and the highlight is 2.2 times stronger. Each fades its fine detail by the pixel's footprint `uPix*t`. All of them turn the glowing bands down or off. None has been seen with sound playing, or on a real chip. **Chrome** (`uSurf` 8) is different in kind: inside `#ifdef CHROME` it follows a second ray from the hit, the way a mirror would send it, for `RSTEPS` steps (40, or 28 on a touch device), and shows what that ray meets (the shape's own orbit-trap colours, darkened by how many steps the ray took and faded by distance; no normal is worked out for it) as light given off by a dark surface. That is two more copies of `map` in every program, so it is compiled in only while chrome is chosen: `fragSource` reads `chrome` (`setChrome`), and the programs made with it are a set of their own (see Packing, *Sets of programs*). A pack world's program never has it, so there chrome looks like plain.
+- **Ribbed** (`uSurf` 9, after chrome's 8): ridges from `sin` of `24 q.z + 8 q.x + 8 q.y` pushed about by two slower sines of the same angles `q`, so it repeats with the world as the rule requires; the surface is tilted by the ridges' slope (worked out, not sampled), the colour is 60% taken out, and the highlight is turned up. Ridges finer than a pixel fade to their average. It came with the Biomech world, as did the **Airbrush** filter (`fx` 16 in `FS_FINAL`: brightness with more contrast, tinted cool to warm, a tenth of the colour kept) and three palettes.
 - Fresnel rim, exponential fog (`exp(-FOG*t)`, `FOG` per world), a step-count glow, vignette.
 - Tone map `col/(1+0.2*col)` after an exposure of 1.35, saturation 1.4, a full smoothstep S-curve, `pow(col, 1.15)`, then gamma 1/2.2.
 
@@ -308,6 +309,7 @@ Two requirements matter more than anything else when adding or changing a world:
 | Kleinian | Limit set of a Kleinian group (Jos Leys, Knighty) | y mirror-folded into the slab `[0, a]`; 12 times: wrap x and z to `[-1,1]`, turn the upper half over onto the lower, invert `p = -p/r2` and move by `(0, a)`; `0.6*min(y, a-y, 0.3)/max(df, 2)` | 2, 2a, 2 | `a = 1.9 + 0.04m` |
 | Pyrite | Cubes on cubes' corners | Mirror tile `P=4`; a cube of half-size 0.5, then `p = abs(p) - 0.66`, two rotations, `p *= 2.6`; 4 levels; factor 0.9 | 8 | rotation |
 | Cell | The inside of a living cell (not a fractal) | Mirror tile `P=8`, then the point's three distances from the cell's middle sorted largest first, so each shape is written once and appears 48 times. Membrane: outside a box of half-size 3.85 with corners of radius 1.5, less a round opening of radius 1.1 along each axis, rippled. Nucleus: a shell of radius 1.5 with 26 pores (axes, edge diagonals, corner diagonals), each with a ring. Microtubules: two rods from the nucleus to the wall, 96 after the fold. Mitochondria (not folded): the cell is cut into 4x4x4 blocks of side 2, and three in four of the 24 blocks in the middle of a side hold a capsule (half-length 0.55, radius 0.28) lying one of six ways, half of them cut open along their length to show plates inside; presence, direction and cut are bits of `n(n+3) mod 61`, `n` being the block's place. Vesicles: 8x8x8 blocks of side 1, about a third of those between nucleus and wall and outside a mitochondrion's block hold a ball of one of four sizes. A block's shape keeps a margin inside its block, and the distance is capped at the distance to the block's side plus that margin, so a neighbour's shape is never overstepped; factor 0.8. Golgi: the side blocks with no mitochondrion hold five dishes, parts of balls round the cell's middle 0.125 apart, cut to a round stack of radius 0.55. Endoplasmic reticulum: one gyroid `g` at 2.6x shapes both kinds; rough is three wavy shells at about 1.83, 2.1 and 2.37 from the middle, with windows where `g > 0.45`, a clear way of radius 0.42 in to every pore and a grain of bumps (ribosomes); smooth is the tubes where `g > 1.18`, kept to where two of the three distances from the middle are over 2.2 (the cell's edges and corners). Centrosome: two barrels of nine rods at right angles at (1.67, 1.67, 1.67), one to a cell (not folded), worked out only within 0.65 of it. Inside the nucleus (worked out only there): a lumpy nucleolus of radius 0.4 off the middle, and chromatin where a gyroid at 7x is beyond 1.05 either way, with the straight ways between pores left clear. The cell's own coordinates are the world's negated near the origin (the mirror tile), which matters only when aiming a camera by hand | 16 | pore size, vesicle size |
+| Biomech | Rib cages, spines and hoses (not a fractal), in homage to H. R. Giger's biomechanical paintings | Tunnels along z, one to each 3.2 by 3.2. Two tori to the unit of z with thickness `0.085 + 0.016*cos(12a)` (segments); eight rods at radius 1.09, found by folding the angle into an eighth of a turn; a spine at each cell corner of radius `0.2 + 0.13*vb^2`, `vb = 0.5 + 0.5*cos(8*pi*z)` (four vertebrae); a tendon along each diagonal from the larger ring to the spine; a pair of hoses at each mid-edge with 10 ribs to the unit. Joined by the rounded minimum `bmS` (k 0.07 and 0.08). `0.75*d`, since the swellings are not true distances | 3.2, 3.2, 1 | larger ring `1.12 + 0.06m`, smaller `1.02 - 0.05m` |
 | Nebula | Volumetric Kaliset | `p = abs(p)/dot(p,p) - f`, 10 iterations, accumulating `|len - prevLen|`; cubed | 2 | `f = 0.55 + 0.03m` |
 | Aurora | Volumetric warped gyroid | Three octaves of `p += A*sin(p.yzx*F + t)`, then `exp(-k*|gyroid|)` ribbons | 2π | ribbon width |
 | Lanterns | Volumetric lights | One soft light to a unit cell and one to a half cell, each off its cell's middle by a hash of the cell (mod 8) and swaying with the clock, faded toward the cell's sides so that none is cut; plus a faint gyroid haze | 8 | size of the larger lights |
@@ -687,7 +689,7 @@ Engine functions: `jCur(k)` (current option key), `jPool(k, cfg)` (allowed optio
 
 A world with `trigger: "sound"` changes when the detector fires and at least `max(10, every/4)` seconds have passed, or after `2.5 * every` seconds regardless. Without live audio it falls back to the clock.
 
-Built-in templates: Classic, Everything, Clean flight, MilkDrop, Kaleidoscope, Calm, Landscapes, Follow the music. Everything, MilkDrop and Follow the music change the surface at random; Clean flight holds it plain; the rest leave it as it is.
+Built-in templates: Classic, Everything, Clean flight, MilkDrop, Kaleidoscope, Calm, Biomech, Landscapes, Follow the music. Everything, MilkDrop and Follow the music change the surface at random; Clean flight holds it plain; the rest leave it as it is.
 
 ### Likes
 
